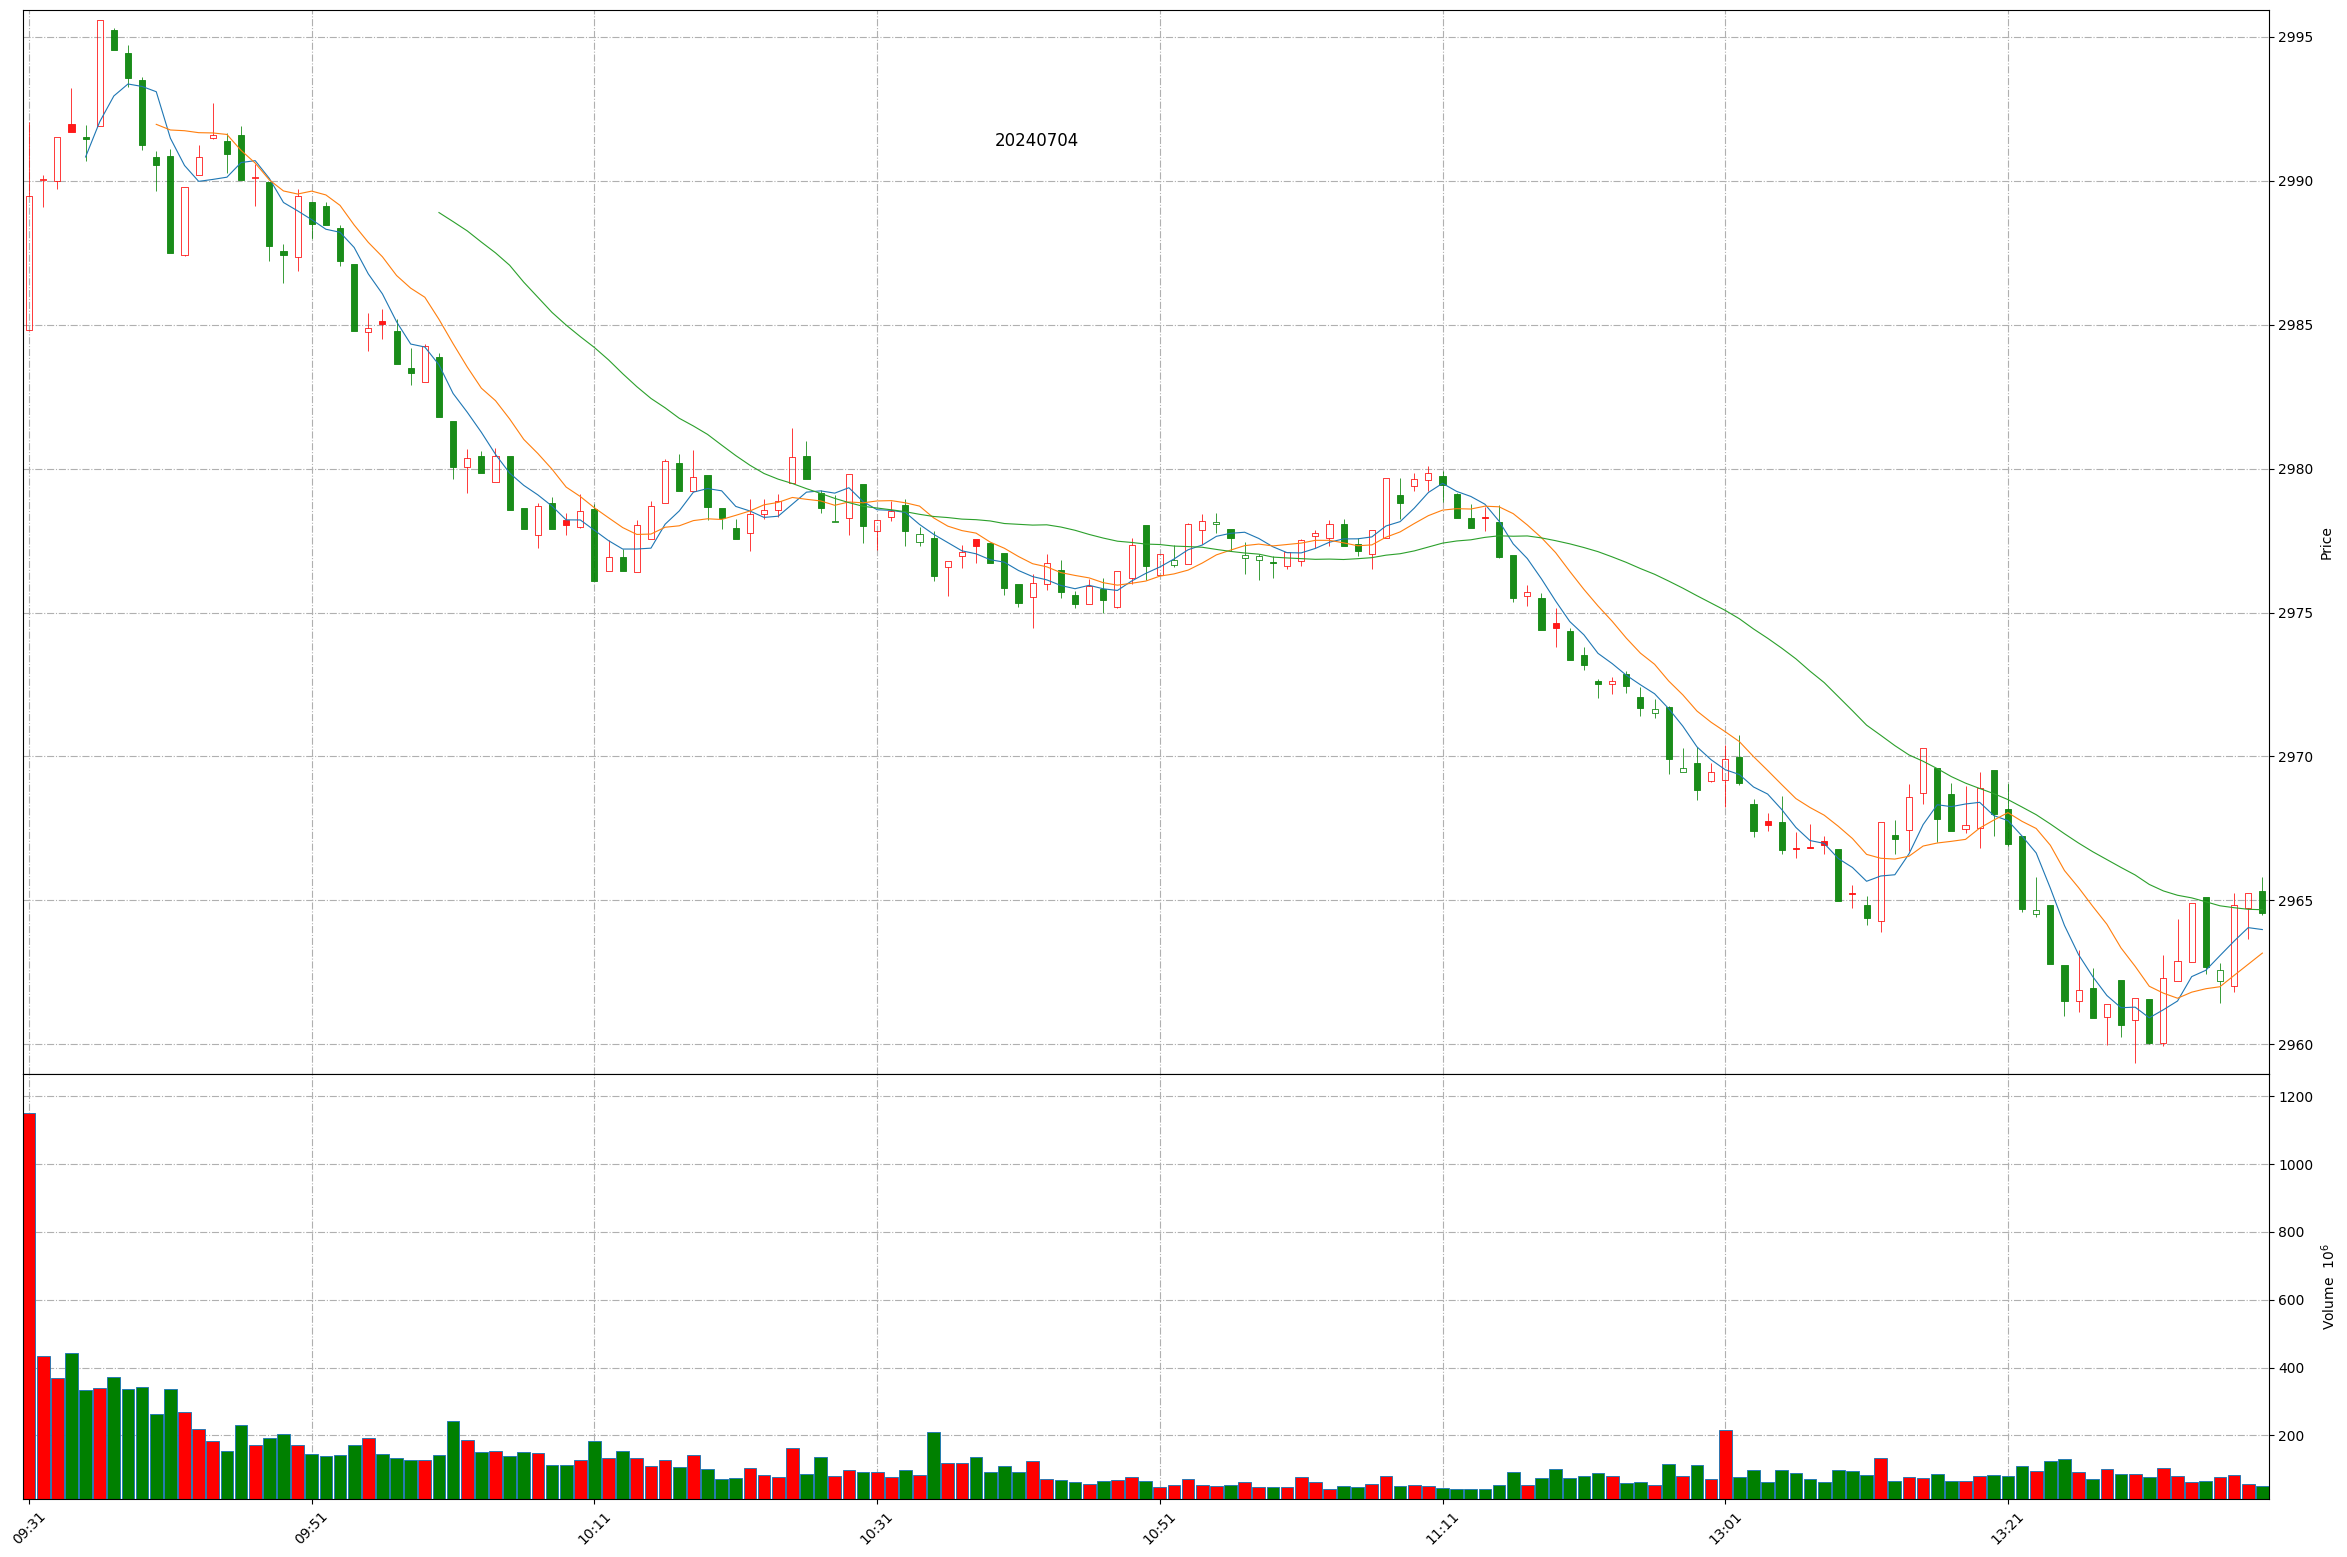
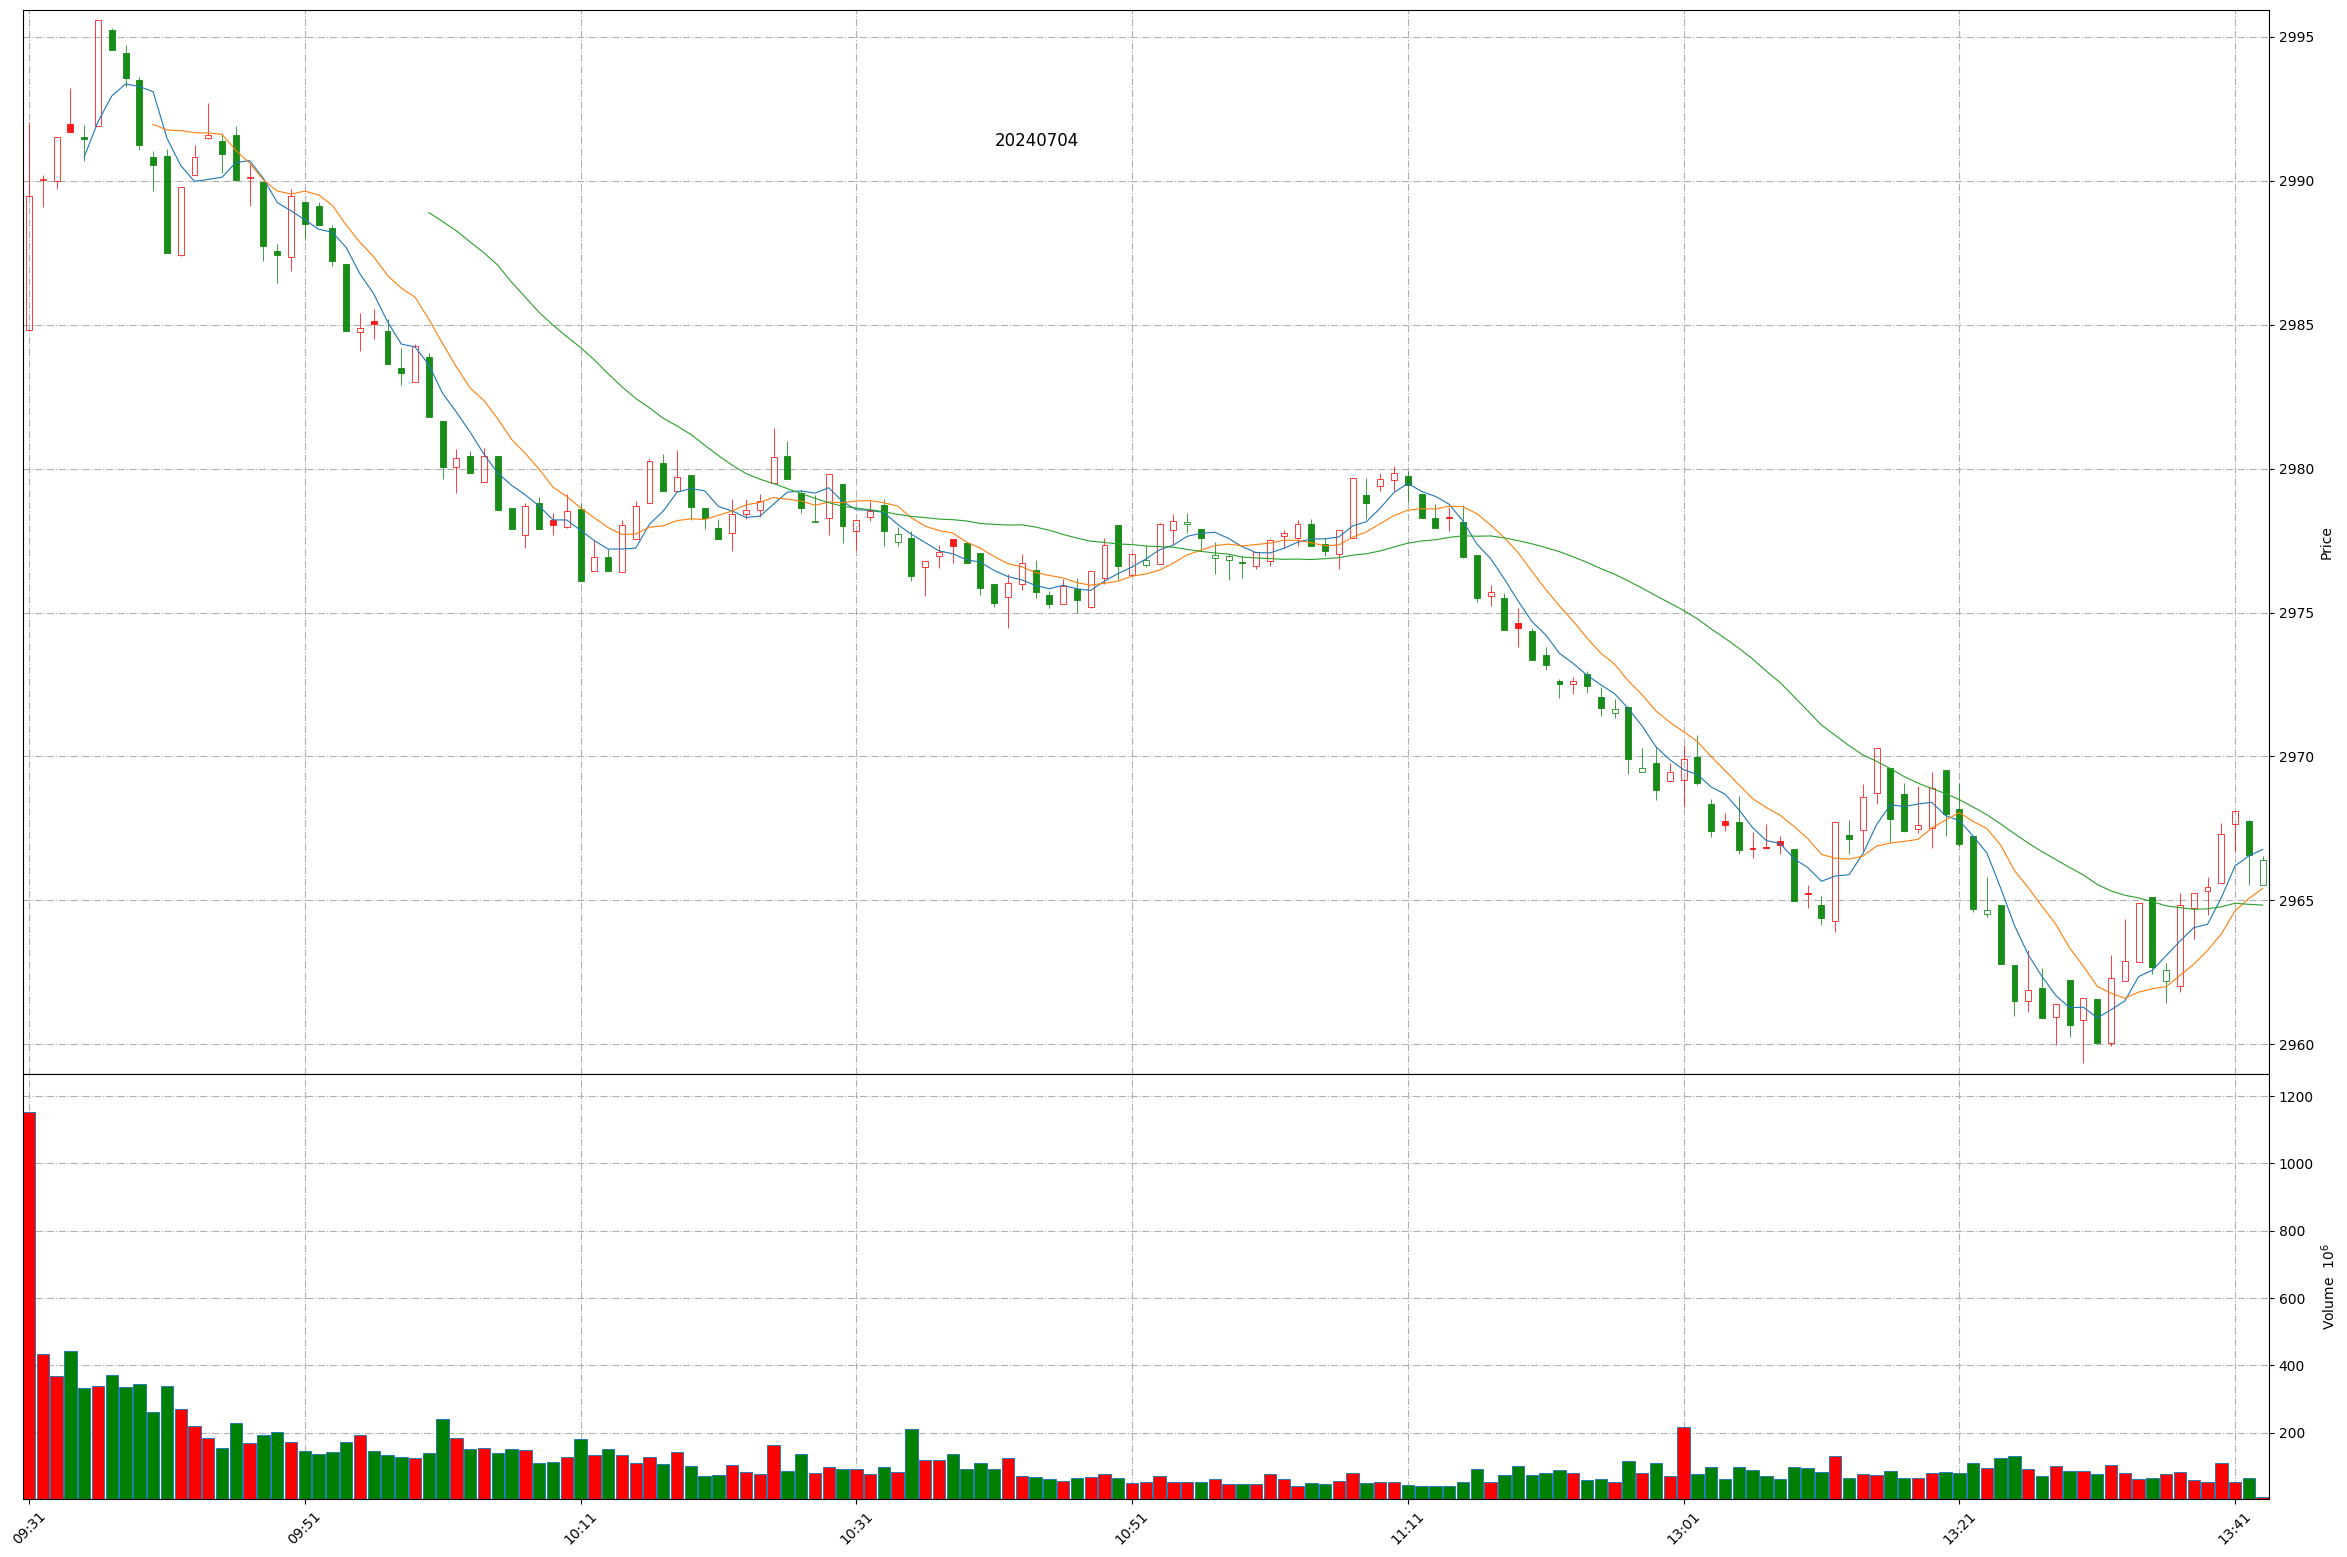
Github action update at 2024-07-04 13:42:31.

Changed region(s): [[0.0311, 0.8632, 0.9642, 0.9865], [0.0311, 0.0308, 0.6843, 0.4316], [0.6843, 0.4316, 0.9642, 0.6782]]

diff --git a/README.md b/README.md
@@ -1,11 +1,11 @@
 
 # Daily-A-share-market-quotes 每日 A 股指数（5min 更新）- 20240704
 
-### 上证指数 20240704 13:39
+### 上证指数 20240704 13:42
 ![](./fig/2024/7/20240704-sh000001.png)
 
-### 深证成指 20240704 13:39
+### 深证成指 20240704 13:42
 ![](./fig/2024/7/20240704-sz399001.png)
 
-### 北证50 20240704 13:39
+### 北证50 20240704 13:42
 ![](./fig/2024/7/20240704-bj899050.png)
